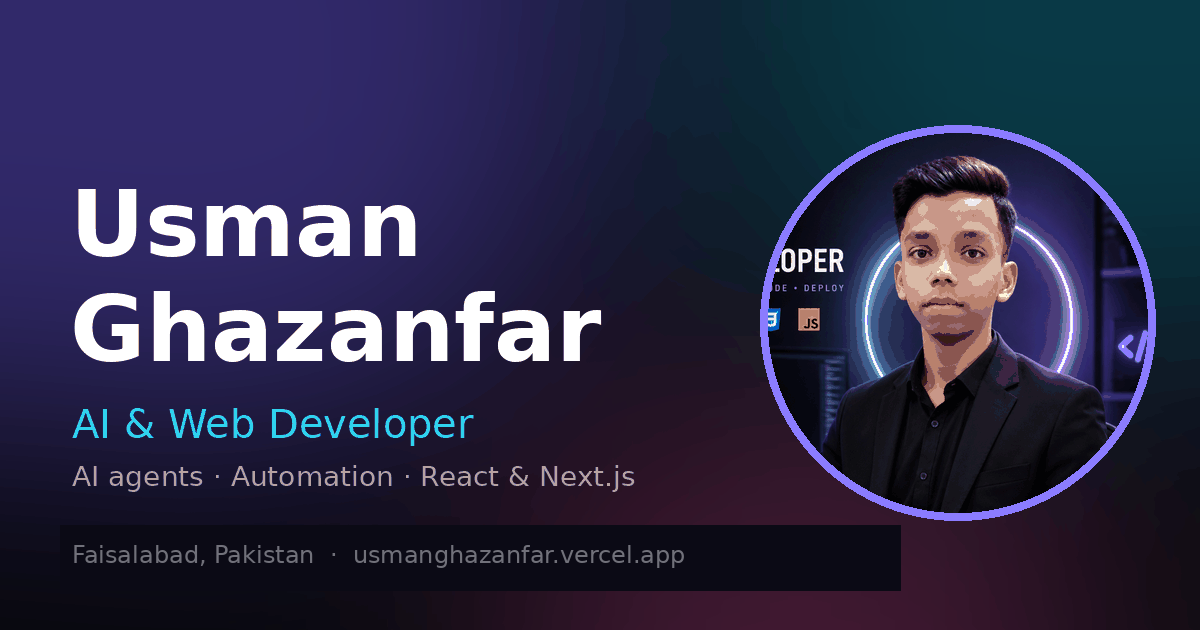
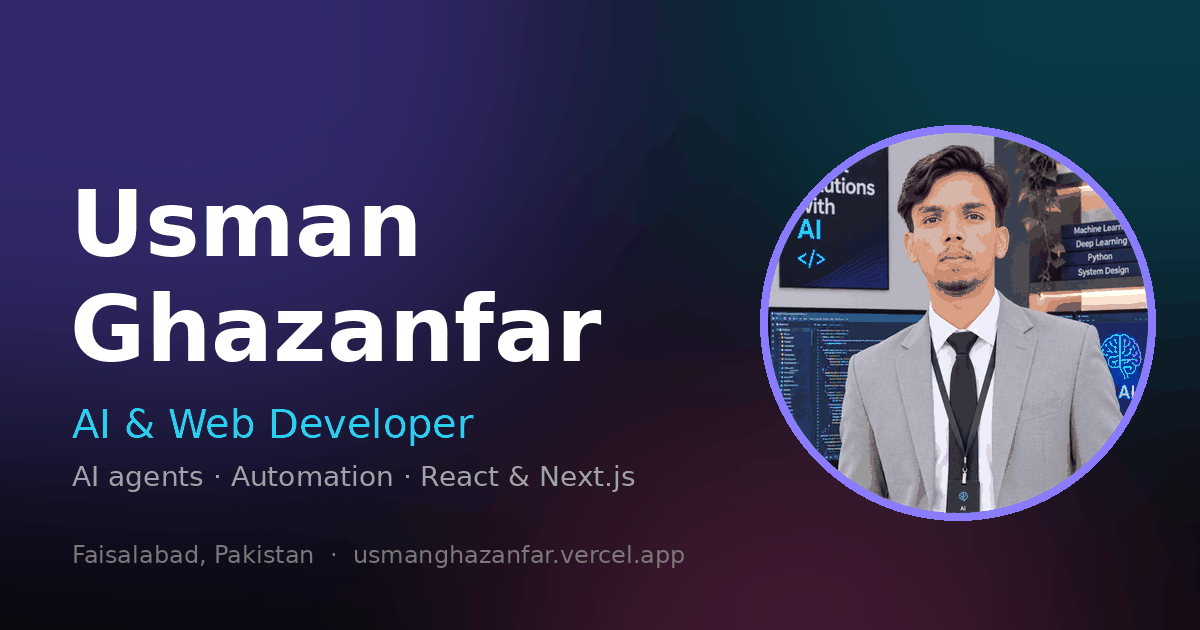
Mobile fix and new photo

Changed region(s): [[0.4317, 0.2111, 0.9558, 0.9651], [0.0925, 0.754, 0.1233, 0.7841]]

diff --git a/src/App.jsx b/src/App.jsx
@@ -102,7 +102,7 @@ function Portrait({ children }) {
   const leave = () => { x.set(0); y.set(0) }
   return (
     <motion.div initial={{ opacity: 0, scale: 0.9 }} animate={{ opacity: 1, scale: 1 }} transition={{ delay: 0.2, duration: 0.8 }}
-      onMouseMove={move} onMouseLeave={leave} style={{ perspective: 900 }} className="relative mx-auto w-[var(--w)] [--w:11rem] sm:[--w:17rem] lg:[--w:18rem]">
+      onMouseMove={move} onMouseLeave={leave} style={{ perspective: 900 }} className="relative mx-auto max-lg:mt-20 w-[var(--w)] [--w:11rem] sm:[--w:17rem] lg:[--w:18rem]">
       <Orbit />
       <motion.div style={{ rotateX: rx, rotateY: ry }} animate={{ y: [0, -10, 0] }} transition={{ y: { duration: 6, repeat: Infinity, ease: 'easeInOut' } }} className="relative z-10">
         {children}
@@ -137,7 +137,7 @@ function Hero() {
         <Portrait>
           <div className="absolute -inset-3 rounded-full bg-gradient-to-br from-accent via-accent-2 to-accent-3 opacity-60 blur-xl sm:blur-2xl" />
           <div className="relative rounded-full bg-gradient-to-br from-accent via-accent-2 to-accent-3 p-1">
-            <img src={profileImg} width="640" height="640" fetchPriority="high" decoding="async" alt={`${PROFILE.name}, ${PROFILE.title} based in Faisalabad, Pakistan`} className="aspect-square w-full rounded-full border-4 border-ink object-cover object-top" />
+            <img src={profileImg} width="470" height="470" fetchPriority="high" decoding="async" alt={`${PROFILE.name}, ${PROFILE.title} based in Faisalabad, Pakistan`} className="aspect-square w-full rounded-full border-4 border-ink object-cover object-top" />
           </div>
         </Portrait>
       </div>
